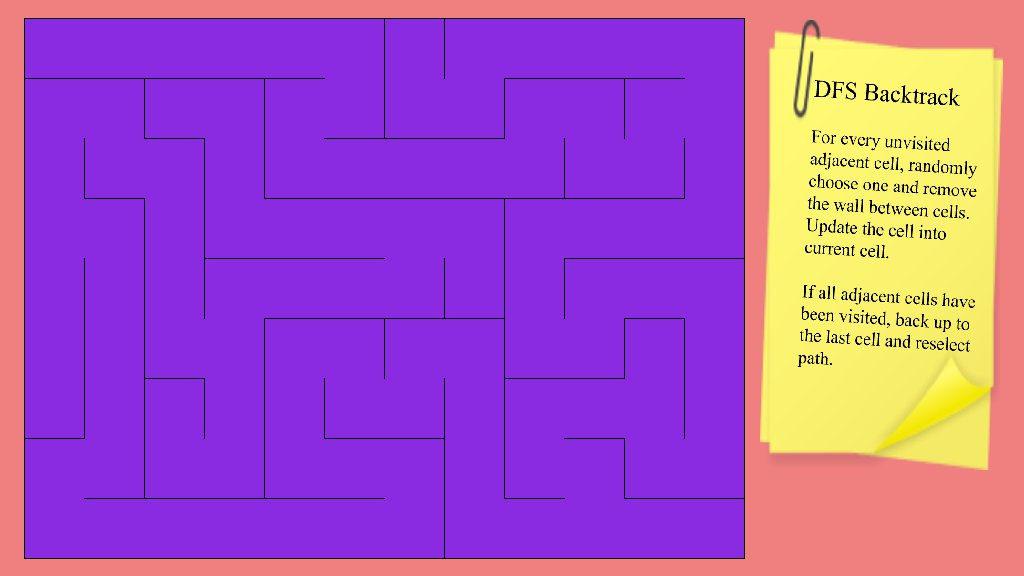
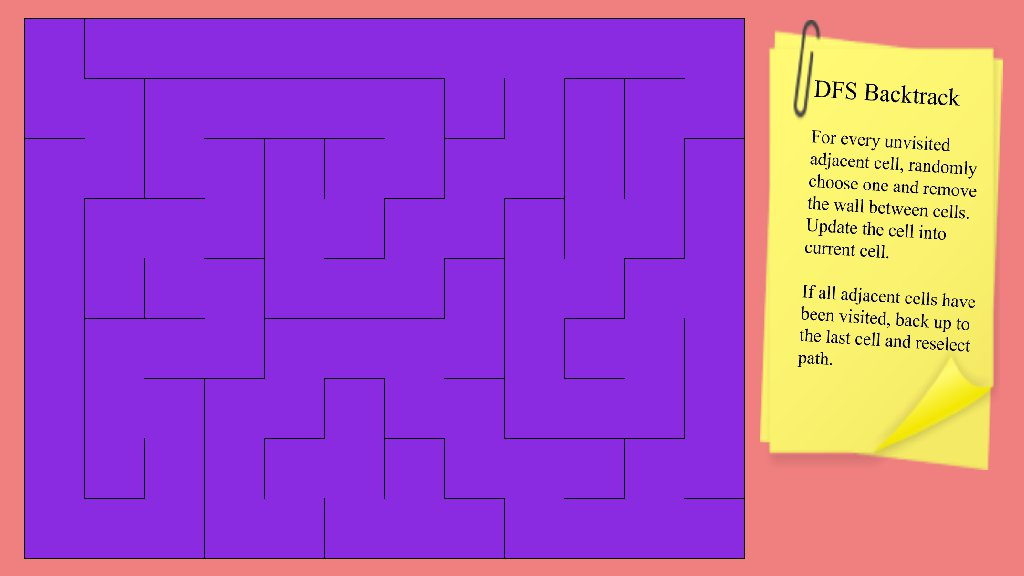
feat: Constructed walking animation for players Added walking animations after the game ended

diff --git a/game.py b/game.py
@@ -1,8 +1,8 @@
 #!/usr/bin/env python
 # -*- coding: utf-8 -*-
 
-import pygame
-from maze_2D import build_grid, generate_maze, shortest_path_bfs, maze_drawing2D
+import pygame, time
+from maze_2D import build_grid, generate_maze, shortest_path_bfs, maze_drawing2D, remove_horizontal, remove_vertical, highlight_coloring
 SCREEN_WIDTH = 1024
 SCREEN_HEIGHT = 576
 
@@ -27,46 +27,17 @@ class Game(object):
         self.maze2D = False
         self.maze3D = False
         self.maze_matrix = []
+        self.width = 0
+        self.height = 0
+        self.show_result = False
+        self.display_result = False
         # Create the font for displaying the score on the screen
         self.font = pygame.font.Font(None,35)
         self.font_small = pygame.font.Font(None, 20)
         # Create the menu of the game
         self.menu = Menu(("Start","Setting","Guide","Exit"),font_color = WHITE,font_size=50)
         self.set = Setting(("DFS","Kruskal","Prim's","Small","Normal","Big","Setting","Algorothm  : ","Size of Maze  : "),font_color = WHITE,font_size=35)
-##        # Create the player
-##        self.player = Player(32,128,"player.png")
-##        # Create the blocks that will set the paths where the player can go
-##        self.horizontal_blocks = pygame.sprite.Group()
-##        self.vertical_blocks = pygame.sprite.Group()
-##        # Create a group for the dots on the screen
-##        self.dots_group = pygame.sprite.Group()
-##        # Set the enviroment:
-##        for i,row in enumerate(enviroment()):
-##            for j,item in enumerate(row):
-##                if item == 1:
-##                    self.horizontal_blocks.add(Block(j*32+8,i*32+8,BLACK,16,16))
-##                elif item == 2:
-##                    self.vertical_blocks.add(Block(j*32+8,i*32+8,BLACK,16,16))
-##        # Create the enemies
-##        self.enemies = pygame.sprite.Group()
-##        self.enemies.add(Slime(288,96,0,2))
-##        self.enemies.add(Slime(288,320,0,-2))
-##        self.enemies.add(Slime(544,128,0,2))
-##        self.enemies.add(Slime(32,224,0,2))
-##        self.enemies.add(Slime(160,64,2,0))
-##        self.enemies.add(Slime(448,64,-2,0))
-##        self.enemies.add(Slime(640,448,2,0))
-##        self.enemies.add(Slime(448,320,2,0))
-##        # Add the dots inside the game
-##        for i, row in enumerate(enviroment()):
-##            for j, item in enumerate(row):
-##                if item != 0:
-##                    self.dots_group.add(Ellipse(j*32+12,i*32+12,WHITE,8,8))
-##
-##        # Load the sound effects
-##        self.pacman_sound = pygame.mixer.Sound("pacman_sound.ogg")
-##        self.game_over_sound = pygame.mixer.Sound("game_over_sound.ogg")
-##
+
 
     def process_events(self):
         for event in pygame.event.get(): # User did something
@@ -85,6 +56,13 @@ class Game(object):
                             self.chosenalgorithm,self.chosensize = self.set.chosen[0],self.set.chosen[1]-3
                             self.game_over = False
                             self.maze2D = True
+                            
+                            self.maze3D = False
+                            self.maze_matrix = []
+                            self.width = 0
+                            self.height = 0
+                            self.show_result = False
+                            self.display_result = False
                             self.draw_maze = True
                             
                         elif self.menu.state == 1:
@@ -100,58 +78,15 @@ class Game(object):
                             return True
                     elif not self.maze2D and not self.maze3D:
                         self.maze3D = True
-                    #elif self.setting:
-                        
-##                elif event.key == pygame.K_RIGHT:
-##                    self.player.move_right()
-##
-##                elif event.key == pygame.K_LEFT:
-##                    self.player.move_left()
-##
-##                elif event.key == pygame.K_UP:
-##                    self.player.move_up()
-##
-##                elif event.key == pygame.K_DOWN:
-##                    self.player.move_down()
-##                
+           
                 elif event.key == pygame.K_ESCAPE:
                     self.game_over = True
                     self.maze3D = False
                     self.about = False
-                    self.setting = False
-
-##            elif event.type == pygame.KEYUP:
-##                if event.key == pygame.K_RIGHT:
-##                    self.player.stop_move_right()
-##                elif event.key == pygame.K_LEFT:
-##                    self.player.stop_move_left()
-##                elif event.key == pygame.K_UP:
-##                    self.player.stop_move_up()
-##                elif event.key == pygame.K_DOWN:
-##                    self.player.stop_move_down()
-##
-##            elif event.type == pygame.MOUSEBUTTONDOWN:
-##                self.player.explosion = True
-##                    
+                    self.setting = False                
         return False
-    
-##    def run_logic(self):
-##        if not self.game_over:
-##            self.player.update(self.horizontal_blocks,self.vertical_blocks)
-##            block_hit_list = pygame.sprite.spritecollide(self.player,self.dots_group,True)
-##            # When the block_hit_list contains one sprite that means that player hit a dot
-##            if len(block_hit_list) > 0:
-##                # Here will be the sound effect
-##                self.pacman_sound.play()
-##                self.score += 1
-##            block_hit_list = pygame.sprite.spritecollide(self.player,self.enemies,True)
-##            if len(block_hit_list) > 0:
-##                self.player.explosion = True
-##                self.game_over_sound.play()
-##            self.game_over = self.player.game_over
-##            self.enemies.update(self.horizontal_blocks,self.vertical_blocks)
-##           # tkMessageBox.showinfo("GAME OVER!","Final Score = "+(str)(GAME.score))    
-##
+     
+
     
     def display_frame(self,screen):
         # First, clear the screen to white. Don't put other drawing commands
@@ -170,13 +105,8 @@ class Game(object):
                 self.display_message(screen,["Select the maze-generating algorithm and map size in Setting.", "Press LEFT and RIGHT on your keyboard to adjust your vision", "and press UP to proceed,","Find the Way to escape from the MAZE!","Enjoy the 3D world!"])
                 label = self.font.render("Press ESC to return",True, WHITE)
                 screen.blit(label, (700, 520))
-                #print(bool(self.setting))
-                #self.display_message(screen,"QAQ",2)
-                #"a maze containing various dots,\n"
-                #known as Pac-Dots, and four ghosts.\n"
-                #"The four ghosts roam the maze, trying to kill Pac-Man.\n"
-                #"If any of the ghosts hit Pac-Man, he loses a life;\n"
-                #"the game is over.\n")
+                
+
             elif self.setting:
                 image = pygame.image.load("./resources/tmp_bg.png")
                 image.convert()
@@ -233,29 +163,97 @@ class Game(object):
                 maze_matrix[-1][-2] = 0
 
                 self.maze_matrix = maze_matrix
+                self.width = width 
+                self.height = height 
+                self.w = w
 
 
                 # print(maze_matrix)
                 # print(draw_step)
 
                 maze_drawing2D(draw_step, algorithm)
-                pygame.image.save(screen, "./resources/maze2D.jpg")
+                # pygame.image.save(screen, "./resources/maze2D.jpg")
                 self.maze2D = False
             else:
                 if not self.maze3D:
-                    image = pygame.image.load("./resources/maze2D.jpg")
-                    image.convert()
-                    screen.blit(image, (0,0))
+                    # image = pygame.image.load("./resources/maze2D.jpg")
+                    # image.convert()
+                    # screen.blit(image, (0,0))
+                    
+                    self.maze_reconstruction(screen, self.maze_matrix, self.width, self.height, self.w)
                     self.display_message_picked_position(screen,"Press ENTER to start", (760, 500))
-                else:
+                    pygame.display.update()
+                elif not self.show_result:
                     screen.fill(CYAN)
                     self.display_message(screen,["3D map is coming!"])
-                    print(self.maze_matrix)
+                    # print(self.maze_matrix)
+                    # Thomas 好帥:把Maze3D加到這
+                    self.show_result = True
+                elif not self.display_result:
+                    self.maze_reconstruction(screen, self.maze_matrix, self.width, self.height, self.w, display_note=False)
+                    path = shortest_path_bfs(self.maze_matrix, (0, 1), (2*self.width-1, 2*self.height), 2*self.width+1, 2*self.height+1)
+                    print(path)
+                    self.carve_player_movements(screen, self.w, path)
+                    self.display_result = True
+                else:
+                    self.maze_reconstruction(screen, self.maze_matrix, self.width, self.height, self.w, display_note=False)
+                    path = shortest_path_bfs(self.maze_matrix, (0, 1), (2*self.width-1, 2*self.height), 2*self.width+1, 2*self.height+1)
+                    self.carve_player_movements(screen, self.w, path, animation=False)
 
 
 
             
         pygame.display.flip()
+
+    def maze_reconstruction(self, screen, maze_matrix, width, height, w, display_note = True):
+        bias_x = 24
+        bias_y = 18
+        blue_violet = (138, 43, 226)
+        lightcoral = (240, 128, 128)
+        screen.fill(lightcoral)
+        pygame.draw.rect(screen, blue_violet,(bias_x, bias_y, 720, 540))
+        build_grid(width, height, w)
+        alg_dic = {0:"dfs_backtrack", 1:"randomized_kruskal", 2:"randomized_prims"} 
+        algorithm = alg_dic[self.chosenalgorithm]
+
+        for j in range(2*height+1):
+            for i in range(2*width+1):
+                if i != 0 and i != 2*width and j != 0 and j != 2*height:
+                    if (i+j)%2 == 1 and maze_matrix[j][i] == 0:
+                        if j % 2 == 1:
+                            remove_vertical(bias_x+(i//2)*w, bias_y+((j-1)//2)*w, w)
+                        else:
+                            remove_horizontal(bias_x+((i-1)//2)*w, bias_y+(j//2)*w, w)
+        if display_note:
+            note = pygame.image.load("./resources/note_" + algorithm + ".png").convert_alpha()
+            note = pygame.transform.scale(note, (250, 450))
+            screen.blit(note, (760, 20))
+
+    def carve_player_movements(self, screen, w, movements, animation=True):
+        bias_x = 24
+        bias_y = 18
+
+        footprint = pygame.image.load("./resources/footprint.png").convert_alpha()
+        footprint = pygame.transform.scale(footprint, (w-1, w-1))
+
+        for move in movements:
+            if animation == True:
+                time.sleep(0.1)
+            col, row = move
+            if col%2 == 1 and row%2 == 1:
+                x = bias_x+((col-1)//2)*w
+                y = bias_y+((row-1)//2)*w
+                # highlight_coloring(x, y, w)
+                screen.blit(footprint, (x+1, y+1))
+                if animation == True:
+                    pygame.display.update()
+        pygame.display.update()
+
+            
+
+
+
+        
 
     def display_message_picked_position(self, screen, message, pos, color=WHITE):
         label = self.font.render(message,True,color)

diff --git a/maze_2D.py b/maze_2D.py
@@ -43,15 +43,15 @@ def build_grid(width, height, w):
         x = bias_x
         y += w
     
-    pygame.display.update()
+    # pygame.display.update()
 
 def remove_horizontal(x, y, w):
-    pygame.draw.line(screen, black, (x, y), (x + w, y))
-    pygame.display.update()
+    pygame.draw.line(screen, blue_violet, (x, y), (x + w, y))
+    # pygame.display.update()
 
 def remove_vertical(x, y, w):
-    pygame.draw.line(screen, black, (x, y), (x, y + w))
-    pygame.display.update()
+    pygame.draw.line(screen, blue_violet, (x, y), (x, y + w))
+    # pygame.display.update()
 
 def go_right(x, y, w):
     pygame.draw.rect(screen, blue_violet,(x+1, y+1, 2*w-1, w-1))
@@ -78,7 +78,11 @@ def cell_recoloring(x, y, w):
     pygame.display.update()
 
 def generate_maze(algorithm, width, height, w):
-    maze_matrix = [[(i+j)%2 for j in range(2*width-1)] for i in range(2*height-1)]
+    maze_matrix = [[1 for j in range(2*width-1)] for i in range(2*height-1)]
+    for j in range(2*height-1):
+        for i in range(2*width-1):
+            if i%2 == 0 and j%2 == 0:
+                maze_matrix[j][i] = 0
     if algorithm == "dfs_backtrack":
         return dfs_backtrack(w, maze_matrix)
     if algorithm == "randomized_kruskal":
@@ -255,7 +259,7 @@ def randomized_prims(width, height, w, maze_matrix):
 def shortest_path_bfs(maze_matrix, start, end, maze_width, maze_height):
     Q = queue.Queue()
     Q.put(start)
-    print(Q.qsize())
+    # print(Q.qsize())
     visit = [start]
     ancestor = [[0 for j in range(maze_width)] for i in range(maze_height)]
     while end not in visit:
@@ -280,7 +284,7 @@ def shortest_path_bfs(maze_matrix, start, end, maze_width, maze_height):
     
     path = [end]
     location = end
-    while True:
+    while start != end:
         location = ancestor[location[1]][location[0]]
         path.insert(0, location)
         if location == start:
@@ -294,7 +298,37 @@ def shortest_path_bfs(maze_matrix, start, end, maze_width, maze_height):
 
 
 if __name__ == "__main__":
-    maze = [[1, 1, 1, 1, 1, 1, 1, 1, 1], [0, 0, 1, 0, 0, 0, 0, 0, 1], [1, 0, 0, 1, 0, 1, 0, 0, 1], [1, 0, 0, 0, 0, 0, 1, 0, 1], [1, 1, 0, 1, 0, 0, 0, 0, 1], [1, 0, 0, 0, 0, 0, 0, 0, 1], [1, 1, 1, 1, 1, 1, 1, 0, 1]]
-    print(maze)
-    dao = shortest_path_bfs(maze, (0, 1), (7, 6), 9, 7)
+
+    width = 12
+    height = 9
+    w = 720 // width
+
+    
+    maze = [[1, 1, 1, 1, 1, 1, 1, 1, 1, 1, 1, 1, 1, 1, 1, 1, 1, 1, 1, 1, 1, 1, 1, 1, 1],
+  [0, 0, 1, 0, 0, 0, 0, 0, 0, 0, 0, 0, 0, 0, 0, 0, 0, 0, 1, 0, 0, 0, 0, 0, 1], 
+  [1, 0, 0, 1, 0, 1, 0, 1, 0, 1, 0, 0, 0, 1, 0, 0, 0, 1, 0, 0, 0, 1, 0, 0, 1], 
+  [1, 0, 0, 0, 1, 0, 0, 0, 0, 0, 1, 0, 1, 0, 1, 0, 1, 0, 0, 0, 0, 0, 1, 0, 1], 
+  [1, 1, 0, 0, 0, 0, 0, 1, 0, 0, 0, 0, 0, 0, 0, 0, 0, 0, 0, 1, 0, 1, 0, 0, 1], 
+  [1, 0, 1, 0, 0, 0, 1, 0, 0, 0, 1, 0, 1, 0, 1, 0, 0, 0, 1, 0, 0, 0, 1, 0, 1], 
+  [1, 0, 0, 1, 0, 1, 0, 0, 0, 1, 0, 0, 0, 0, 0, 1, 0, 1, 0, 0, 0, 0, 0, 0, 1], 
+  [1, 0, 0, 0, 0, 0, 1, 0, 1, 0, 1, 0, 0, 0, 1, 0, 1, 0, 0, 0, 1, 0, 0, 0, 1], 
+  [1, 0, 0, 0, 0, 0, 0, 0, 0, 0, 0, 1, 0, 0, 0, 0, 0, 0, 0, 1, 0, 1, 0, 0, 1], 
+  [1, 0, 1, 0, 1, 0, 1, 0, 1, 0, 0, 0, 0, 0, 0, 0, 1, 0, 0, 0, 1, 0, 1, 0, 1], 
+  [1, 0, 0, 0, 0, 0, 0, 0, 0, 1, 0, 1, 0, 1, 0, 1, 0, 1, 0, 0, 0, 0, 0, 0, 1], 
+  [1, 0, 1, 0, 1, 0, 1, 0, 1, 0, 0, 0, 0, 0, 0, 0, 0, 0, 0, 0, 1, 0, 0, 0, 1], 
+  [1, 0, 0, 0, 0, 1, 0, 0, 0, 0, 0, 1, 0, 1, 0, 1, 0, 1, 0, 1, 0, 0, 0, 1, 1], 
+  [1, 0, 1, 0, 0, 0, 0, 0, 1, 0, 0, 0, 0, 0, 1, 0, 0, 0, 0, 0, 1, 0, 1, 0, 1], 
+  [1, 0, 0, 1, 0, 1, 0, 1, 0, 1, 0, 0, 0, 0, 0, 0, 0, 0, 0, 1, 0, 0, 0, 0, 1], 
+  [1, 0, 1, 0, 0, 0, 0, 0, 0, 0, 1, 0, 1, 0, 1, 0, 1, 0, 0, 0, 1, 0, 0, 0, 1], 
+  [1, 0, 0, 1, 0, 0, 0, 1, 0, 0, 0, 1, 0, 0, 0, 0, 0, 1, 0, 0, 0, 1, 0, 0, 1], 
+  [1, 0, 0, 0, 0, 0, 1, 0, 0, 0, 0, 0, 0, 0, 1, 0, 0, 0, 1, 0, 0, 0, 0, 0, 1], 
+  [1, 1, 1, 1, 1, 1, 1, 1, 1, 1, 1, 1, 1, 1, 1, 1, 1, 1, 1, 1, 1, 1, 1, 0, 1]] 
+
+    dao = shortest_path_bfs(maze, (8, 3), (8, 3), 2*width+1, 2*height+1)
+
     print(dao)
+
+    
+
+
+# (1, 9) (2, 11) 25 19
